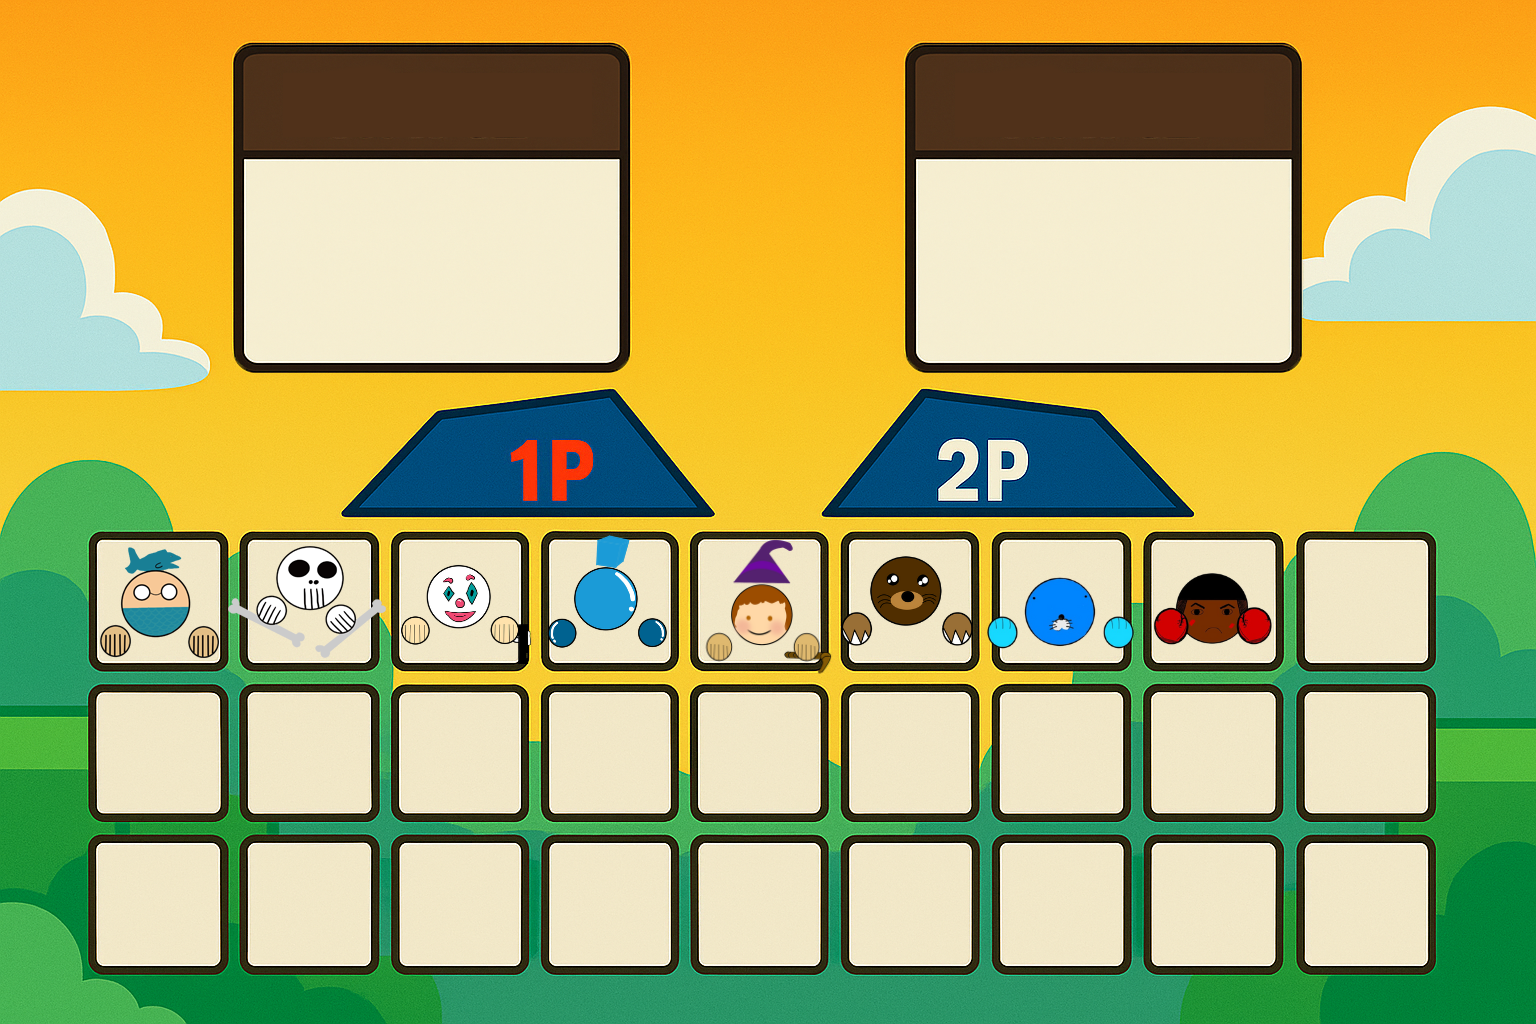
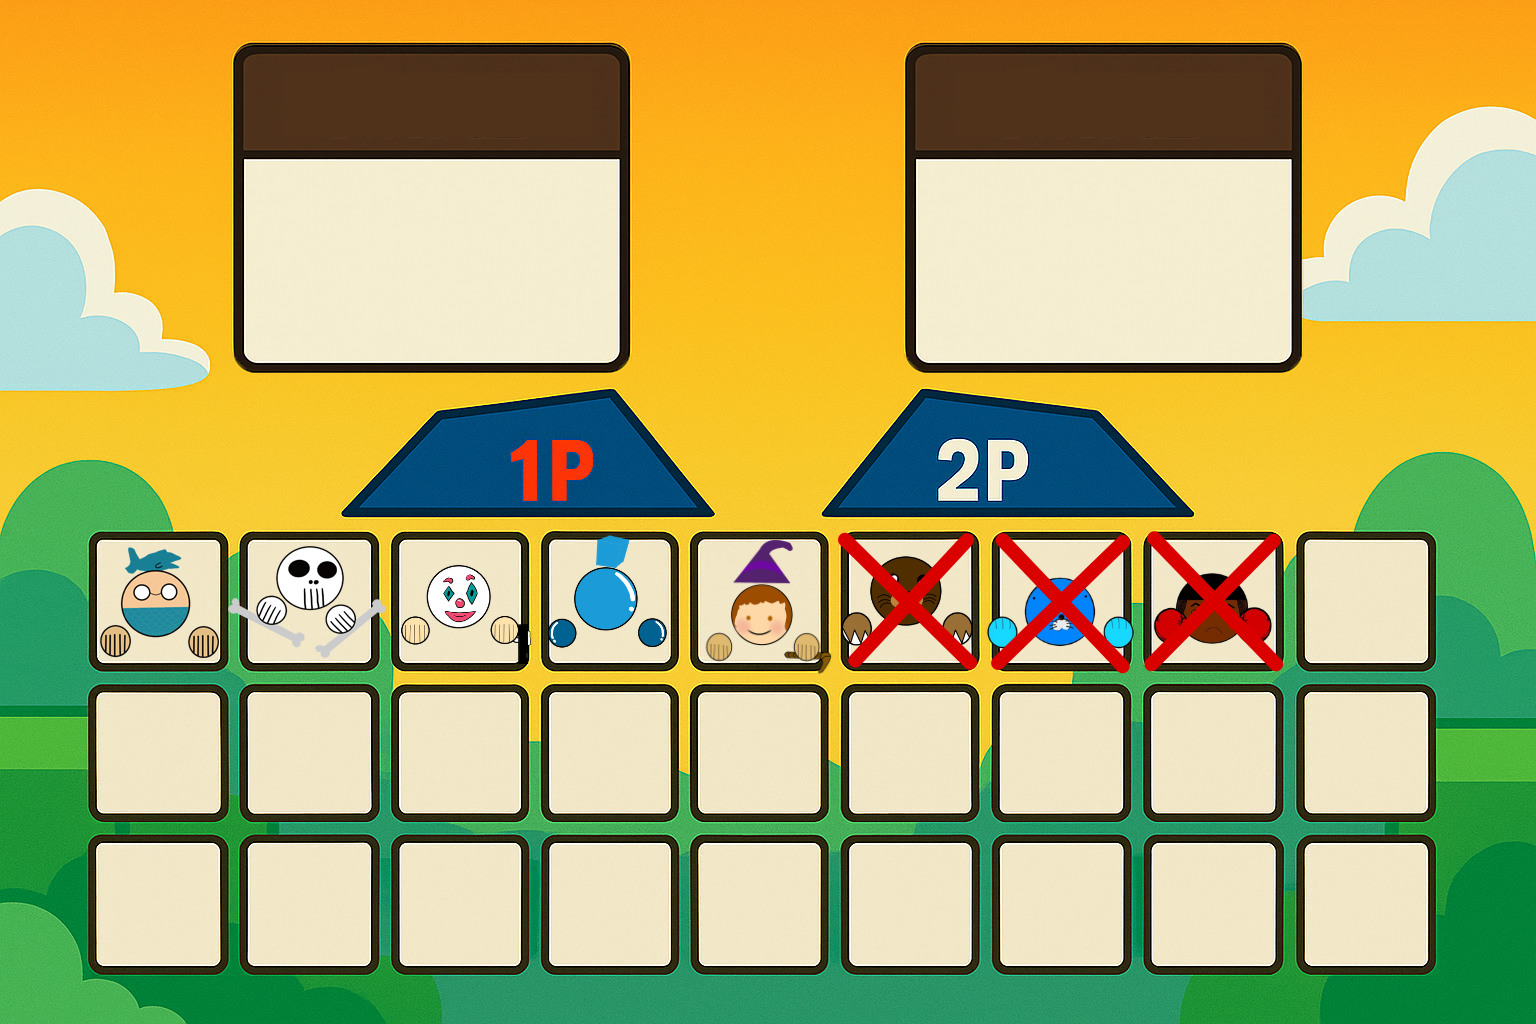
맵 추가

Changed region(s): [[0.5312, 0.5, 0.8438, 0.6562], [0.8125, 0.625, 0.8438, 0.6562]]

diff --git a/src/gameplay.py b/src/gameplay.py
@@ -38,7 +38,7 @@ CONFUSION_DURATION_MS = 3000
 MOVE_BOOST_PERCENTAGE = 0.5 
 
 # 📢 디버그 상수: 충돌 박스 시각화 활성화/비활성화
-DEBUG_DRAW_HITBOX = True
+DEBUG_DRAW_HITBOX = False
 
 # 📢 캐릭터 충돌 박스 조정 상수 (기존 설정 유지)
 CHAR_SIZE = 200 
@@ -101,7 +101,7 @@ def gameplay(screen, map_image_path):
     initial_y = GROUND_Y - HITBOX_HEIGHT
     
     # 📢 [수정]: jump_count 변수 추가 (2단 점프 구현용)
-    p1 = {"x": 200, "y": initial_y, "vx": 0, "vy": 0, "on_ground": True, "hp": 100, "ultimate_gauge": 0, "max_hp": 100,
+    p1 = {"x": 200, "y": initial_y, "vx": 0, "vy": 0, "on_ground": True, "hp": 200, "ultimate_gauge": 0, "max_hp": 200,
           "is_stunned": False, "stun_end_time": 0, "invincible_end_time": 0, 
           "is_confused": False, "confusion_end_time": 0, "speed_boost_end_time": 0, 
           "is_frozen": False, "frozen_end_time": 0, 
@@ -109,7 +109,7 @@ def gameplay(screen, map_image_path):
           "status_effects": [], "jump_count": 0} 
           
     # 📢 [수정]: jump_count 변수 추가 (2단 점프 구현용)
-    p2 = {"x": SCREEN_WIDTH - 400, "y": initial_y, "vx": 0, "vy": 0, "on_ground": True, "hp": 100, "ultimate_gauge": 0, "max_hp": 100,
+    p2 = {"x": SCREEN_WIDTH - 400, "y": initial_y, "vx": 0, "vy": 0, "on_ground": True, "hp": 200, "ultimate_gauge": 0, "max_hp": 200,
           "is_stunned": False, "stun_end_time": 0, "invincible_end_time": 0,
           "is_confused": False, "confusion_end_time": 0, "speed_boost_end_time": 0,
           "is_frozen": False, "frozen_end_time": 0,
@@ -398,7 +398,7 @@ def gameplay(screen, map_image_path):
                     elapsed_s = elapsed_ms / 1000.0
                     max_hp = entity.get("max_hp", 100)
                     # 독 데미지: dps * max_hp * 0.1 (100ms당)
-                    dmg = eff.get("dps", 0.0) * max_hp * 0.1 
+                    dmg = eff.get("dps", 0.0) * max_hp * 0.4
                     entity["hp"] = max(0, entity.get("hp", 0) - int(dmg))
                     eff["last_tick"] = now
                 new_effects.append(eff)
@@ -932,9 +932,6 @@ def gameplay(screen, map_image_path):
         elif game_state == "ROULETTE_STOPPED":
             
             # 📢 [추가]: 승리 사운드가 아직 재생되지 않았다면 재생 (단, 한 번만 재생)
-            if victory_sound and not pygame.mixer.get_busy() and not getattr(victory_sound, '_played_once', False):
-                victory_sound.play()
-                setattr(victory_sound, '_played_once', True) # 사운드가 재생되었음을 표시
 
             # 📢 룰렛 정지 표시
             draw_roulette(screen, roulette_angle, roulette_img, roulette_pin_img)
@@ -946,6 +943,5 @@ def gameplay(screen, map_image_path):
         pygame.display.flip()
         
     # 📢 [추가]: 게임 종료 시 사운드 재생 상태 정리
-    if victory_sound: setattr(victory_sound, '_played_once', False)
     pygame.mixer.music.stop()
     return "Title"

diff --git a/src/scenes/maps.py b/src/scenes/maps.py
@@ -1,10 +1,14 @@
 import pygame
+import os
 
 pygame.mixer.init()
 
+# 📢 [수정]: 맵 목록에 '하늘섬' 맵을 추가했습니다.
+# '수영장' 맵 오른쪽 (X: 466)에 배치했습니다. (160 너비 + 약 50 픽셀 간격)
 map_config = {
   "map_list": [
     {"name": "수영장", "codename": "swimming_pool", "rect": pygame.Rect(256, 313.5, 160, 160)},
+    {"name": "하늘섬", "codename": "sky_island", "rect": pygame.Rect(466, 313.5, 160, 160)},
   ],
   "selected_map": None
 }
@@ -20,21 +24,41 @@ def maps(screen, current_scene):
 
   pygame.display.set_caption("Bounce Attack (REMASTERED) - 맵 선택")
 
-  background = pygame.image.load("assets/img/maps.png")
-  background = pygame.transform.scale(background, (screen.get_width(), screen.get_height()))
+  # 배경 로드
+  try:
+      background = pygame.image.load("assets/img/maps.png")
+      background = pygame.transform.scale(background, (screen.get_width(), screen.get_height()))
+  except pygame.error:
+      background = pygame.Surface((screen.get_width(), screen.get_height()))
+      background.fill((0, 0, 0)) # 배경 이미지 없으면 검은색으로 대체
+      
   screen.blit(background, (0, 0))
 
-  swimming_pool_rect = map_config["map_list"][0]["rect"]
-  swimming_pool = pygame.image.load("assets/maps/swimming_pool.png")
-  swimming_pool = pygame.transform.scale(swimming_pool, (swimming_pool_rect.width, swimming_pool_rect.height))
-  swimming_pool_rect = swimming_pool.get_rect(center=swimming_pool_rect.center)
-  screen.blit(swimming_pool, swimming_pool_rect)
+  # 📢 [수정]: 맵 리스트를 반복하여 모든 맵을 로드하고 렌더링합니다.
+  for map_data in map_config["map_list"]:
+      target_rect = map_data["rect"]
+      codename = map_data["codename"]
+      
+      try:
+          # assets/maps/{codename}.png 경로에서 맵 이미지 로드
+          map_image = pygame.image.load(os.path.join("assets", "maps", f"{codename}.png"))
+          map_image = pygame.transform.scale(map_image, (target_rect.width, target_rect.height))
+          
+          # 이미지를 목표 Rect의 중앙에 맞춥니다.
+          image_rect = map_image.get_rect(center=target_rect.center)
+          screen.blit(map_image, image_rect)
+          
+      except pygame.error as e:
+          # 이미지 로드 실패 시 대체 표시 (디버그용)
+          print(f"Error loading map image {codename}.png: {e}")
+          pygame.draw.rect(screen, (255, 0, 0), target_rect, 2)
 
   for event in pygame.event.get():
     if event.type == pygame.QUIT:
       return None
     if event.type == pygame.MOUSEBUTTONDOWN:
       mouse_pos = pygame.mouse.get_pos()
+      # 맵 선택 로직은 그대로 유지 (이미 모든 맵을 순회하고 있었음)
       for map in map_config["map_list"]:
         if map["rect"].collidepoint(mouse_pos):
           map_config["selected_map"] = map["codename"]

diff --git a/src/scenes/characters.py b/src/scenes/characters.py
@@ -27,9 +27,6 @@ character_config: Dict[str, Any] = {
         {"name": "조커", "codename": "joker", "rect": pygame.Rect(260, 380, 85, 85)},
         {"name": "아이스맨", "codename": "iceman", "rect": pygame.Rect(370, 380, 85, 85)},
         {"name": "마녀", "codename": "witch", "rect": pygame.Rect(480, 380, 85, 85)},
-        {"name": "두더지", "codename": "mole", "rect": pygame.Rect(590, 380, 85, 85)},
-        {"name": "보노보노", "codename": "bonobono", "rect": pygame.Rect(700, 380, 85, 85)},
-        {"name": "파이터", "codename": "fighter", "rect": pygame.Rect(810, 380, 85, 85)},
     ],
     "selected_1p": None,
     "selected_2p": None,

diff --git a/src/skills/witch_skills.py b/src/skills/witch_skills.py
@@ -253,6 +253,6 @@ class PoisonPotionUltimate(UltimateSkillBase):
         # 히트박스가 충돌 시 독 디버프를 걸도록 설정
         hitbox.causes_poison = True
         hitbox.poison_duration = 15000
-        hitbox.poison_dps = 0.001
+        hitbox.poison_dps = 0.01
 
         return [effect, hitbox]

diff --git a/src/maps/sky_island.py b/src/maps/sky_island.py
@@ -1,0 +1,6 @@
+import pygame
+from gameplay import gameplay
+
+def sky_island(screen, current_map):
+    pygame.display.set_caption("Bounce Attack (REMASTERED) - sky_island")
+    return gameplay(screen, "assets/maps/sky_island.png")
